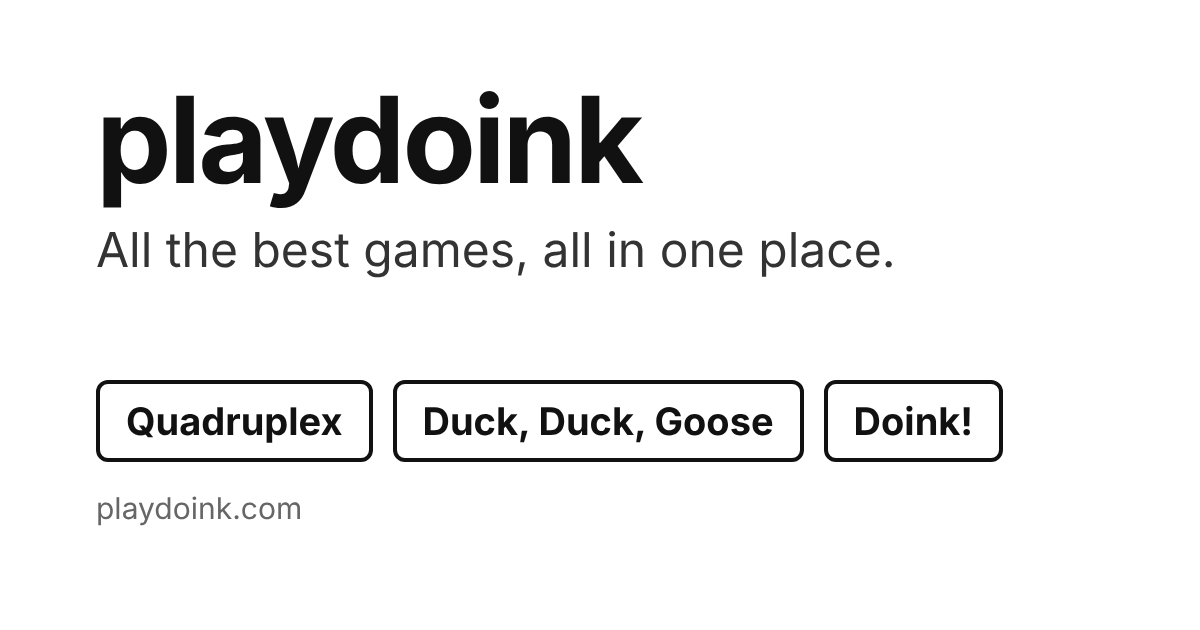
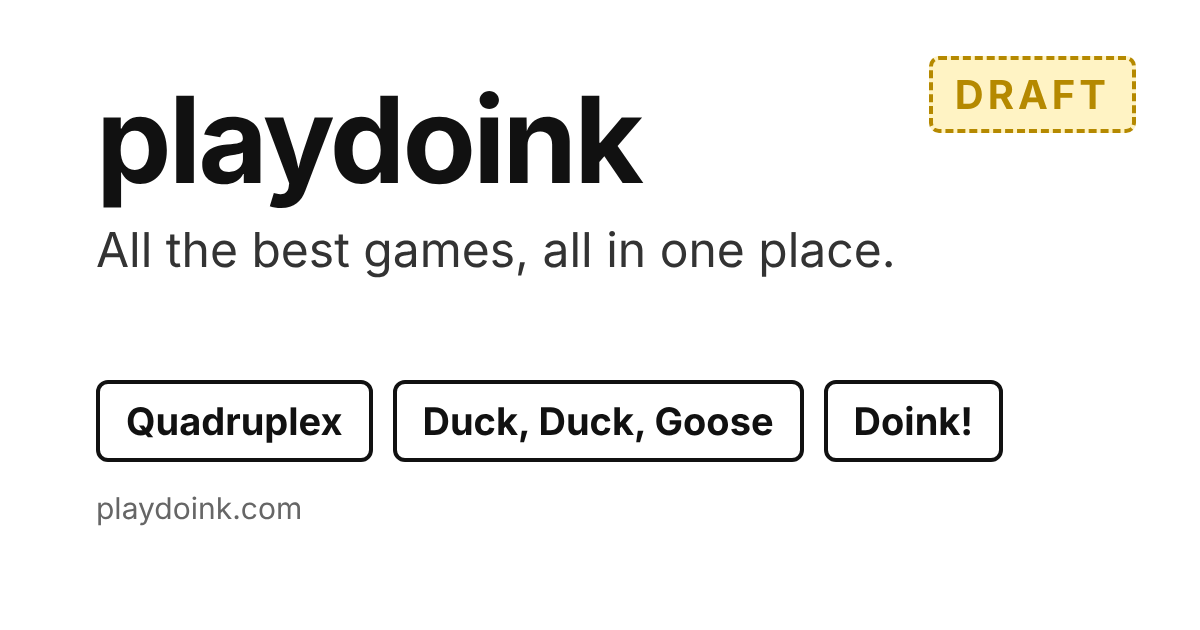
Hub preview image: DRAFT label
Claude-Session: https://claude.ai/code/session_01S5wR3qx6PPsmbyKT4prb8G

Changed region(s): [[0.7708, 0.0905, 0.9558, 0.2111]]

diff --git a/CHANGELOG.md b/CHANGELOG.md
@@ -29,6 +29,6 @@
   Also a small fixed "More games from playdoink" link at the bottom of every
   page (templates/footer.php). Live 2026-10-20 via doink-more-games.sh.
 - **Hub link preview.** `hub/og-image.png` (1200×630: "playdoink / All the best
-  games, all in one place" with the three game names) and og/twitter tags on
+  games, all in one place" with the three game names, marked DRAFT) and og/twitter tags on
   the home page, so shared links show an image and description.
 - Home page is live at playdoink.com (Jim uploaded hub/index.html). Doink! link updates and CORS change not deployed yet.
